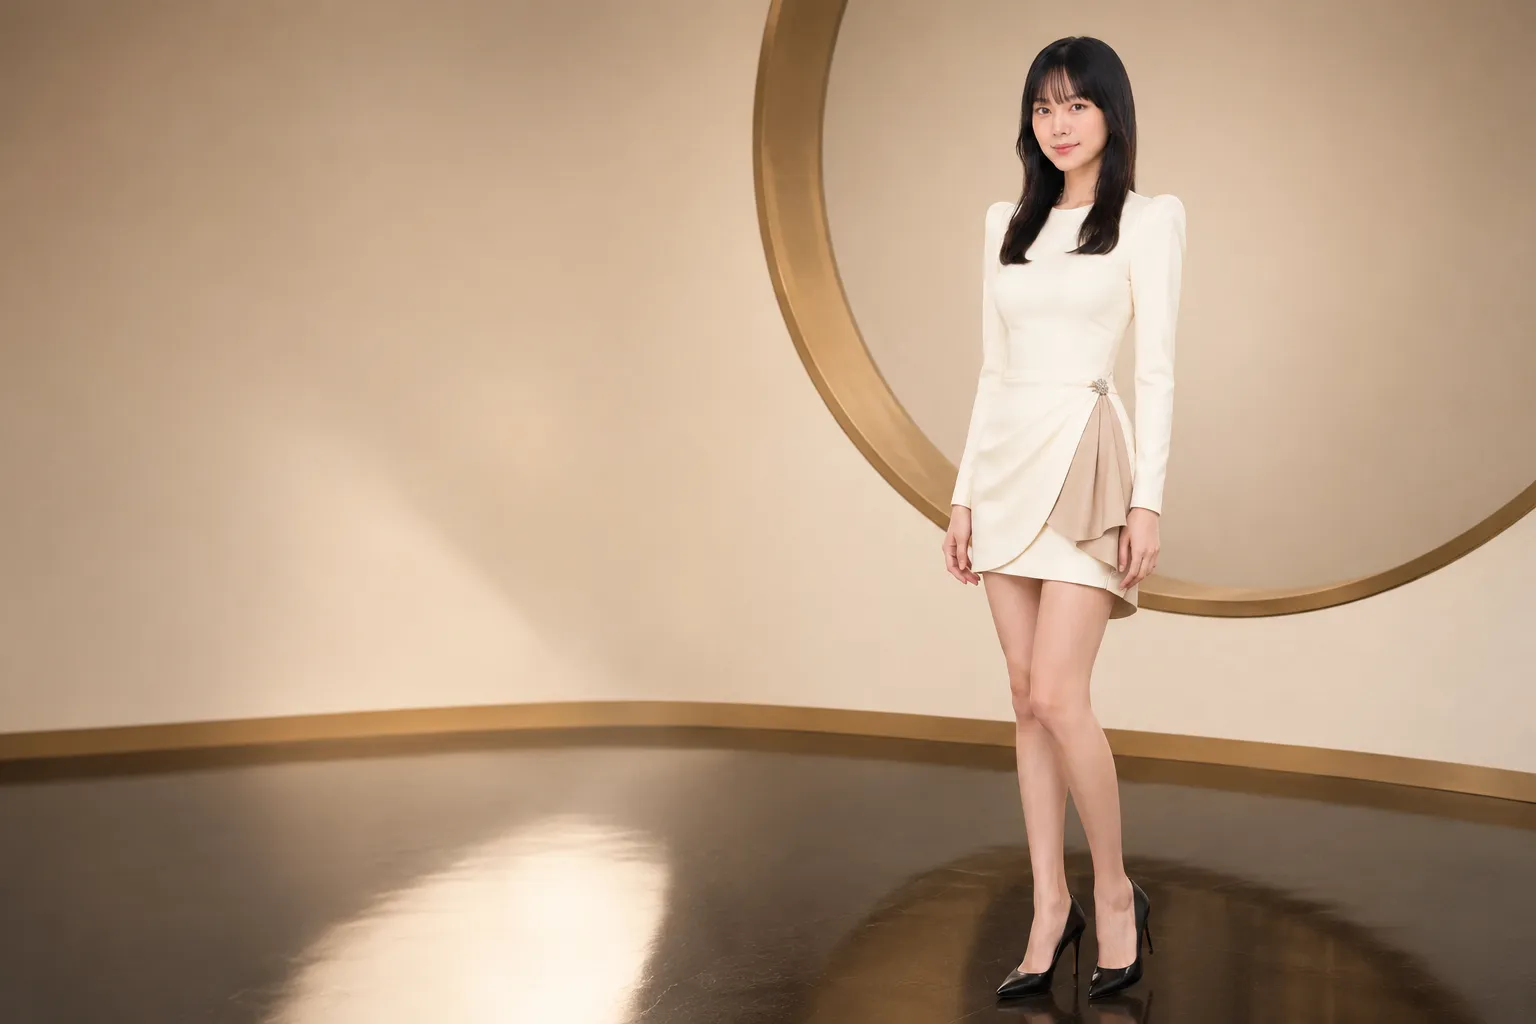
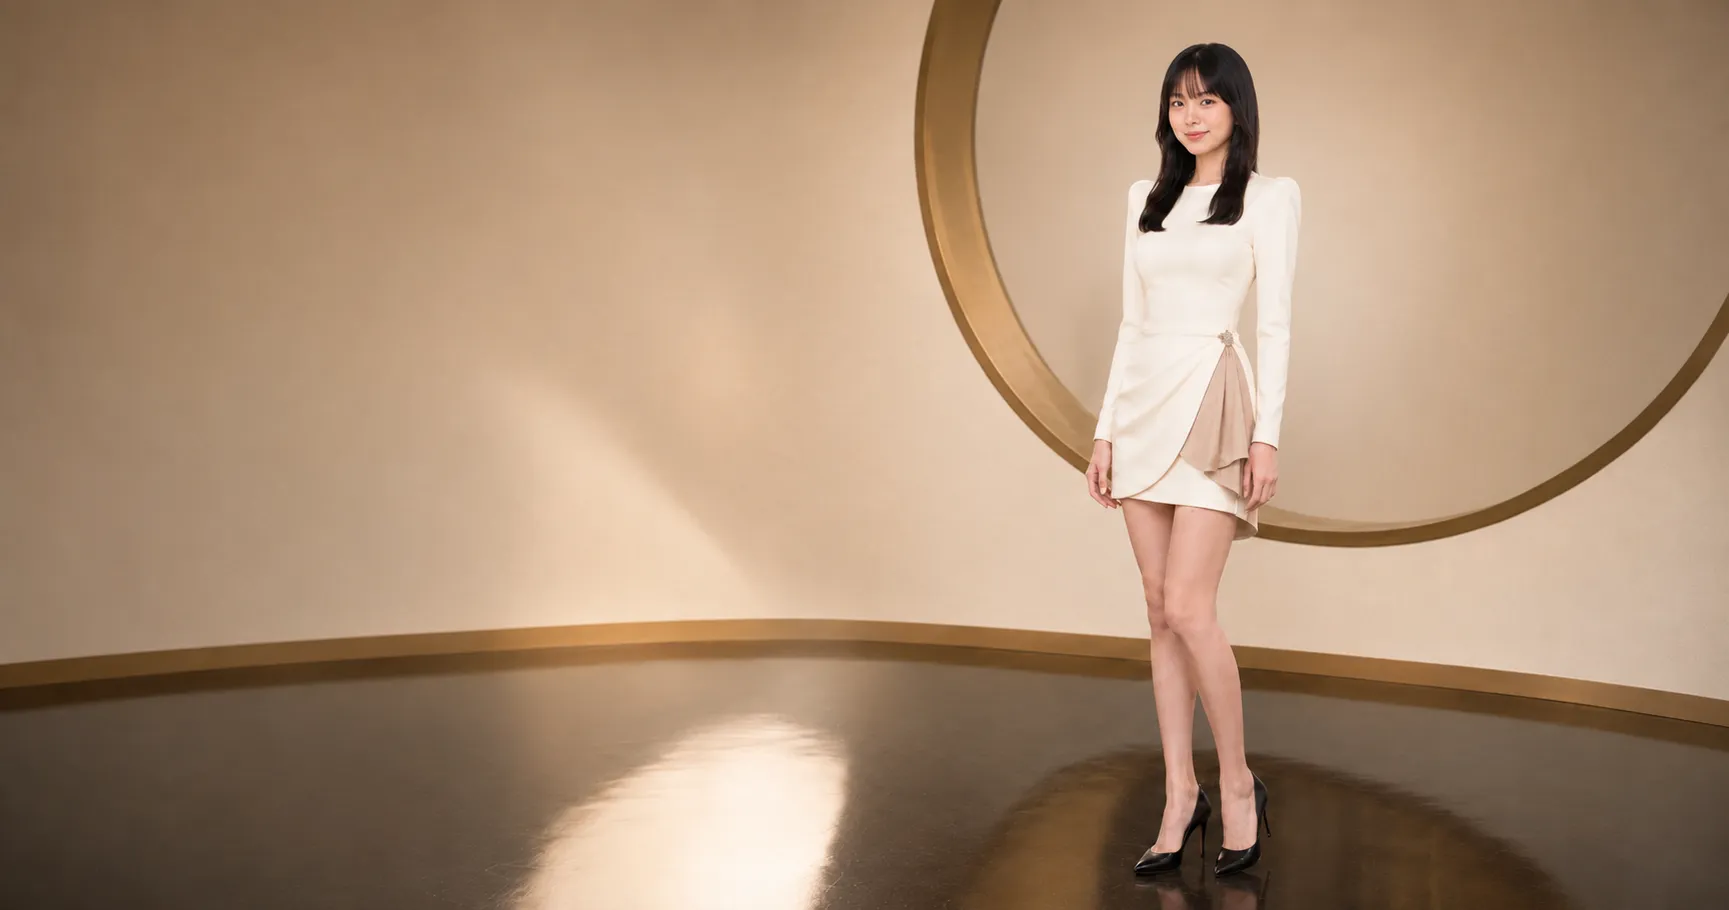
サムネの調整

diff --git a/components/sections/MeridianSection.tsx b/components/sections/MeridianSection.tsx
@@ -150,14 +150,24 @@ export function MeridianSection({ realUrl, digitalUrl, realAlt, digitalAlt }: Pr
   return (
     <section
       ref={sectionRef}
-      className="relative min-h-[100svh] overflow-hidden bg-bg"
+      className="relative overflow-hidden bg-bg py-24 md:py-32"
       data-section="hybrid"
     >
-      {/* ステージ */}
+      {/* 見出し(ステージの上に重ねず、素材を隠さない) */}
+      <div className="mx-auto max-w-6xl px-6">
+        <p className="section-kicker">{t('kicker')}</p>
+        <h2 className="font-display mt-4 max-w-xl text-4xl leading-tight text-ivory md:text-6xl">
+          {t('title')}
+        </h2>
+      </div>
+
+      {/* ステージ: 元素材(16:9)を切り抜かず全体を表示する。
+          高さが100svhを超えないよう幅側を制限し、常に正確な16:9を維持 */}
       <div
         ref={stageRef}
         data-cursor="drag"
-        className="absolute inset-0 cursor-ew-resize touch-pan-y select-none"
+        className="relative mx-auto mt-10 aspect-video cursor-ew-resize touch-pan-y select-none overflow-hidden bg-panel"
+        style={{ width: 'min(100%, calc(100svh * 16 / 9))' }}
         onPointerDown={onPointerDown}
         onPointerMove={onPointerMove}
         onPointerUp={onPointerUp}
@@ -172,7 +182,7 @@ export function MeridianSection({ realUrl, digitalUrl, realAlt, digitalAlt }: Pr
             progressRef={progressRef}
           />
         ) : (
-          /* CSSフォールバック: clip-path比較スライダー */
+          /* CSSフォールバック: clip-path比較スライダー(枠が16:9なので全体が見える) */
           <div className="absolute inset-0">
             {/* eslint-disable-next-line @next/next/no-img-element */}
             <img
@@ -211,27 +221,17 @@ export function MeridianSection({ realUrl, digitalUrl, realAlt, digitalAlt }: Pr
         </div>
 
         {/* 世界ラベル */}
-        <span className="pointer-events-none absolute top-1/2 left-6 -translate-y-1/2 text-[0.65rem] tracking-[0.4em] text-ivory/80 [writing-mode:vertical-rl]">
+        <span className="pointer-events-none absolute top-1/2 left-4 -translate-y-1/2 text-[0.65rem] tracking-[0.4em] text-ivory/80 [writing-mode:vertical-rl]">
           {t('real')}
         </span>
-        <span className="pointer-events-none absolute top-1/2 right-6 -translate-y-1/2 text-[0.65rem] tracking-[0.4em] text-gold [writing-mode:vertical-rl]">
+        <span className="pointer-events-none absolute top-1/2 right-4 -translate-y-1/2 text-[0.65rem] tracking-[0.4em] text-gold [writing-mode:vertical-rl]">
           {t('digital')}
         </span>
-
-        {/* 上下のシネマティックグラデーション */}
-        <div className="pointer-events-none absolute inset-x-0 top-0 h-40 bg-gradient-to-b from-bg to-transparent" />
-        <div className="pointer-events-none absolute inset-x-0 bottom-0 h-56 bg-gradient-to-t from-bg to-transparent" />
       </div>
 
-      {/* DOMテキストレイヤー */}
-      <div className="pointer-events-none relative z-20 mx-auto flex min-h-[100svh] max-w-6xl flex-col justify-between px-6 py-24">
-        <div>
-          <p className="section-kicker">{t('kicker')}</p>
-          <h2 className="font-display mt-4 max-w-xl text-4xl leading-tight text-ivory md:text-6xl">
-            {t('title')}
-          </h2>
-        </div>
-        <div className="pointer-events-auto max-w-md">
+      {/* 本文+スライダー(ステージの下) */}
+      <div className="mx-auto mt-10 max-w-6xl px-6">
+        <div className="max-w-md">
           <p className="text-sm leading-relaxed text-soft">{t('body')}</p>
           <span className="mt-4 inline-block border border-gold/40 px-3 py-1 text-[0.6rem] tracking-[0.25em] text-gold">
             AI-ENHANCED REAL TALENT

diff --git a/lib/metadata.ts b/lib/metadata.ts
@@ -1,10 +1,14 @@
 import type { Metadata } from 'next';
 import { routing } from '@/i18n/routing';
 
-// 本番は NEXT_PUBLIC_SITE_URL を設定する。
-// 未設定時、Vercelのプレビュー等では VERCEL_URL を暫定利用し、最後にlocalhostへ。
+// 本番は NEXT_PUBLIC_SITE_URL を設定する(最優先)。
+// 未設定時はVercelの本番ドメイン(VERCEL_PROJECT_PRODUCTION_URL)へフォールバック。
+// VERCEL_URLはデプロイ固有URLでOG画像がクローラーから取得できない場合があるため最後。
 export const SITE_URL = (
   process.env.NEXT_PUBLIC_SITE_URL ||
+  (process.env.VERCEL_PROJECT_PRODUCTION_URL
+    ? `https://${process.env.VERCEL_PROJECT_PRODUCTION_URL}`
+    : '') ||
   (process.env.VERCEL_URL ? `https://${process.env.VERCEL_URL}` : '') ||
   'http://localhost:3000'
 ).replace(/\/$/, '');

diff --git a/components/sections/RealTalentSection.tsx b/components/sections/RealTalentSection.tsx
@@ -92,8 +92,9 @@ export function RealTalentSection({ items }: { items: WallItem[] }) {
           </figure>
 
           {rest.map((item, i) => (
-            <figure key={i} className="group relative overflow-hidden">
-              <div className="aspect-video overflow-hidden bg-panel md:aspect-[3/4]">
+            <figure key={i} className="group relative flex flex-col justify-end overflow-hidden">
+              {/* 素材は16:9横長。縦クロップせず全体を見せる(下端をメインと揃える) */}
+              <div className="aspect-video overflow-hidden bg-panel">
                 <AutoPlayVideo
                   src={item.src}
                   poster={item.poster}

diff --git a/CLAUDE.md b/CLAUDE.md
@@ -45,6 +45,14 @@ Claude内蔵ブラウザペインは非表示タブ扱いでrAFが停止し、**
 ### 5. UIの重なり
 モバイルメニューは `<header>`(z-50)の**外**に置く(内側だとheaderがクリックを遮る)。
 
+### 6. Node 24(Windows)の `fs.rmSync` は非ASCIIファイル名でネイティブクラッシュ
+日本語・空白入りファイル名に `fs.rmSync` を使うと **STATUS_STACK_BUFFER_OVERRUN
+(exit 0xC0000409)で無言クラッシュ**する(try/catchでは捕捉不可能)。
+`fs.unlinkSync` は同じファイルでも正常動作するため、削除は必ずunlinkSyncを使う。
+症状: `npm run dev` がpredevのsyncで沈黙のまま失敗し「サイトが立ち上がらない」。
+素材のファイル名は docs/06 の規則(小文字英数字とハイフンのみ)を厳守。
+`assets:validate` が規則違反を警告する。
+
 ## アーキテクチャの約束(docs/20)
 
 - ホーム構成は `data/home-sections.json` のセクションレジストリ。ハードコード禁止